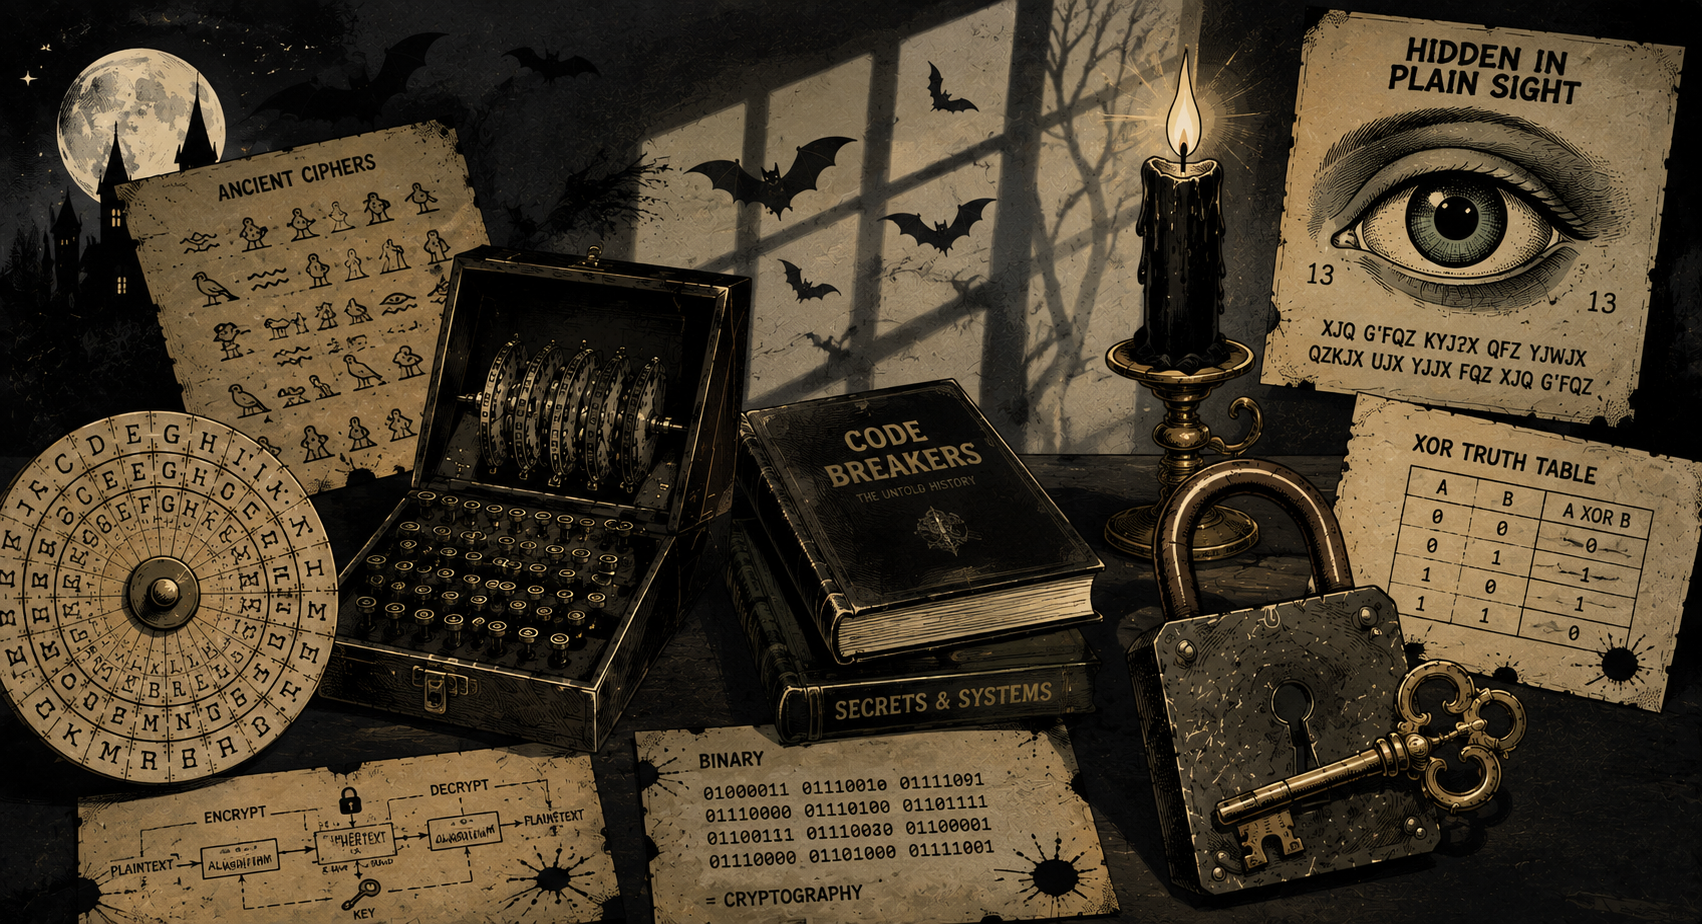
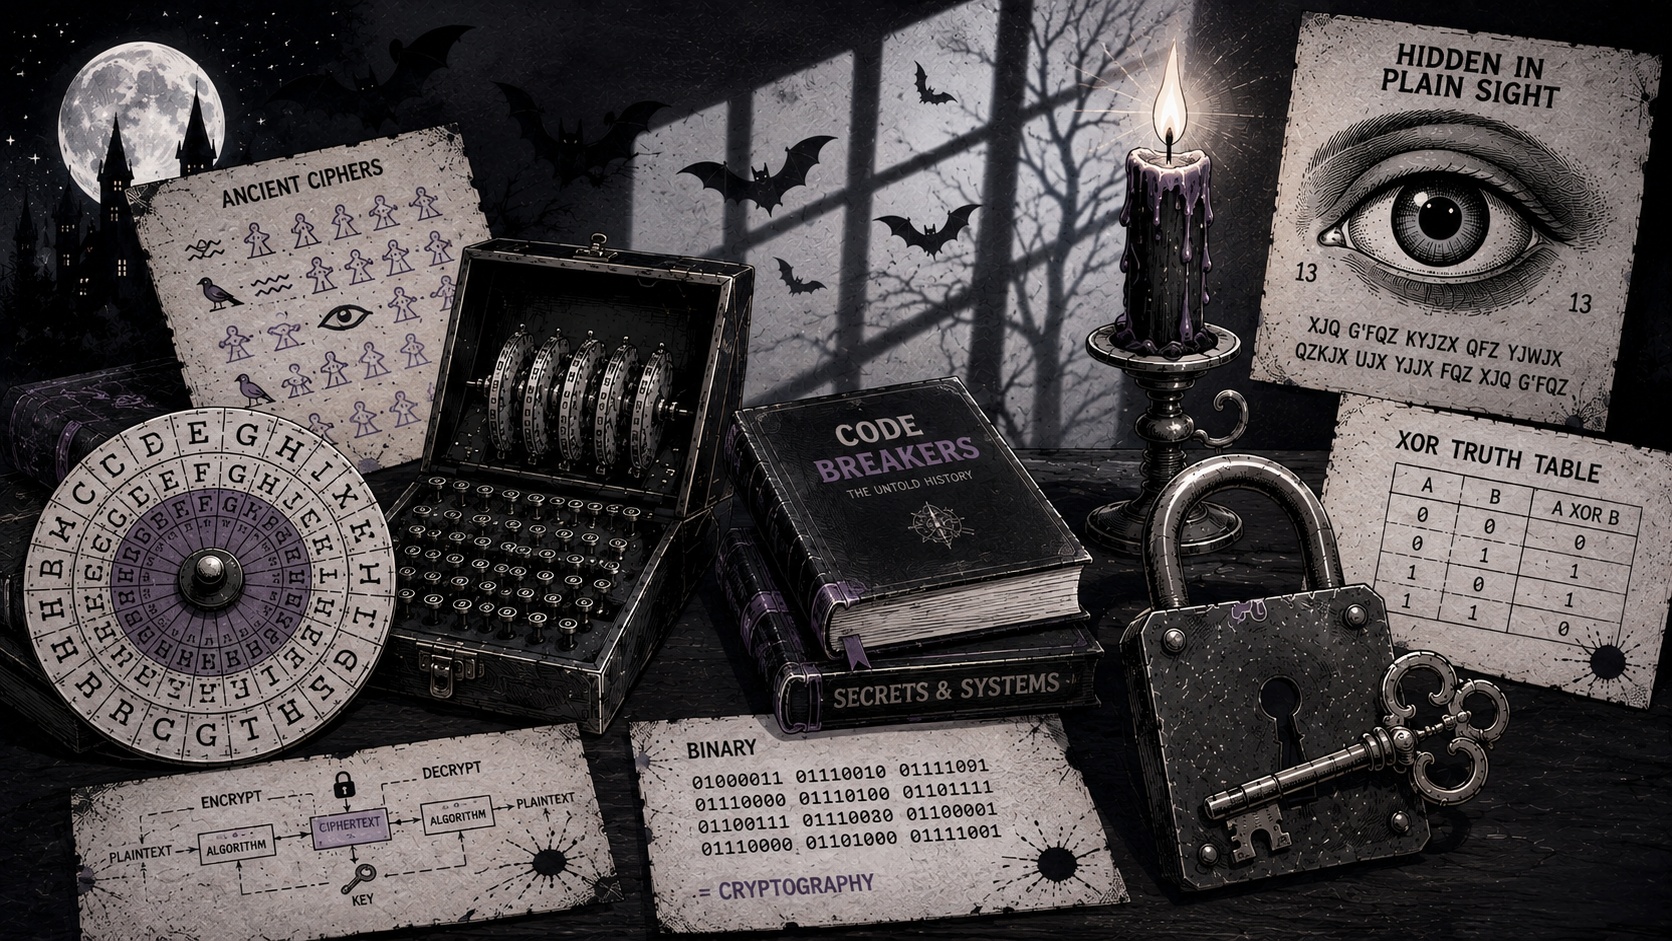
tt

diff --git a/posts/linux-lessons.html b/posts/linux-lessons.html
@@ -20,17 +20,69 @@
           ← Back to feed
         </a>
 
-        <h1>Things I Learned from Breaking Linux</h1>
+        <article>
+  <h1>TCP and UDP Were Never Designed to Be Secure</h1>
 
-        <p class="article-deck">
-          Replace this with the finished introduction to your article.
-        </p>
+  <p class="article-deck">
+A few months ago I took my Information Security exam, and one of the questions was:
+<em>"Explain the security challenges at the transport layer in the TCP/IP model."</em>
+</p>
 
-        <div class="article-body">
-          <p>
-            This is a ready-to-edit article page. Add headings,
-            paragraphs, screenshots and code blocks here.
-          </p>
+<p>
+That question sent me down a rabbit hole. Instead of just revising TCP, UDP and TLS, I became curious about why these protocols were designed the way they were in the first place.
+</p>
+
+<p>
+Once I started looking into their history, a lot of things suddenly made much more sense. It turns out the Internet we use today is still built on ideas from a very different world.
+</p>
+
+<p>
+I thought it was too interesting not to write about, so here's a short journey through the history of TCP, UDP and why transport-layer security looks the way it does today.
+</p>
+
+  <h2>The "Wild West" where everyone just trusted each other</h2>
+
+  <p>When Vint Cerf and Bob Kahn were sketching out the foundation for TCP back in 1974 (and when RFC 793 officially dropped in 1981), the internet was not the chaotic place it is today. Back then, it was just ARPANET, basically a tiny, closed group of university researchers, professors, and military engineers.</p>
+
+  <p>Because everyone on the network was an identifiable academic, the entire design was built on 100% mutual trust. Nobody built encryption or authentication into TCP or UDP because nobody expected someone on the network to actively eavesdrop or hijack sessions. If you wanted to stop someone from messing with your data, you simply locked the physical door to the computer lab.</p>
+
+  <p>Plus, hardware back then was painfully slow. Adding heavy encryption overhead to every packet would have crawled the entire network to a halt. TCP was built for reliability (making sure packets arrived in order), UDP was built for raw speed, and security was left as a problem for the future. Fast forward to the 1990s, and we were sending plain text HTTP over an open global web.</p>
+
+  <h2>When Netscape realized we had a problem</h2>
+
+  <p>Once the World Wide Web exploded in the 90s and everyday people started jumping online, sending plain text across public routers obviously became a disaster waiting to happen. Anyone with basic tools could sniff sensitive data right off the wire.</p>
+
+  <p>Netscape tried fixing this in 1995 with SSL 2.0. It was kind of a mess and full of security holes, so they quickly redesigned it as SSL 3.0 in 1996. Eventually, the IETF took over, renamed it TLS (Transport Layer Security) 1.0 in 1999 to make it an open standard, and that is what evolved into the TLS 1.3 we use today (or DTLS for UDP).</p>
+
+  <p>Whenever you see that little padlock in your address bar, TLS is doing three main things behind the scenes:</p>
+  <ul>
+    <li><strong>Cipher Suites:</strong> Agreeing on how to encrypt the data.</li>
+    <li><strong>Key Exchange:</strong> Secretly exchanging encryption keys so nobody in the middle can read the payload.</li>
+    <li><strong>Authentication:</strong> Using digital certificates so your browser knows it is actually talking to your bank and not an attacker pretending to be them.</li>
+  </ul>
+
+  <h2>Attacks that don't care about encryption</h2>
+
+  <p>But... Even if you encrypt the payload using TLS, an attacker can still abuse the fundamental mechanics of TCP itself. They don't need to read your data if they can just crash your server or hijack your connection.</p>
+
+  <p>A few classic examples I had to write about:</p>
+  <ul>
+    <li><strong>SYN Floods:</strong> TCP uses a three-way handshake to connect (SYN &rarr; SYN/ACK &rarr; ACK). In a SYN flood, an attacker sends a wall of SYN packets with fake return IP addresses. The server responds with SYN/ACK and holds open a slot in memory waiting for the final ACK. But because the sender IP was fake, the final ACK never comes. The server just sits there holding open thousands of "half-open" connections until it runs out of memory and crashes. <em>(SYN cookies are usually used to fight this now so the server doesn't reserve memory upfront).</em></li>
+    <li><strong>Optimistic ACK Attacks:</strong> TCP tries to be smart about speed, if the network is clear, it speeds up data transfer. In an optimistic ACK attack, a client sends ACK receipts <em>before</em> it even receives the packets. This tricks the server into thinking "wow, this network is lightning fast!" and it starts blasting data at max speed, totally overwhelming intermediate routers.</li>
+    <li><strong>Session Hijacking:</strong> If an attacker can guess or steal your TCP sequence numbers (or session cookies), they can step right into the middle of an established connection. The server thinks it is still talking to you, so the attacker can perform actions in your account without ever needing your password.</li>
+    <li><strong>Port Scanning:</strong> Before doing any of this, attackers run tools like Nmap to probe ports and see what's open. A good firewall uses stateful inspection, it basically drops any inbound packet that was not explicitly requested by someone inside the network, making the machine look like a ghost to scanners.</li>
+  </ul>
+
+  <h2>Final thoughts</h2>
+
+<p>
+One thing that really surprised me was how much of today's Internet still depends on ideas that were designed in a completely different era. TCP and UDP were built for a small network where people trusted each other.
+</p>
+
+<p>
+It was really fun to learn about why these protocols work the way they do. 
+</p>
+</article>
         </div>
       </div>
     </article>

diff --git a/js/posts.js b/js/posts.js
@@ -24,19 +24,19 @@ window.blogPosts = [
     previewHtml: "TCP 443<br>192.168.1.10<br>ESTABLISHED",
     likes: 18,
     reposts: 5,
-  },
+  },*/
   {
     shortDate: "Jul 8",
     intro:
-      "Linux lesson of the week: breaking something is often the fastest way to understand how it works.",
+      "It’s kind of wild to realize that almost everything we do online today runs on protocols created over 40 years ago, protocols that were never actually built with security in mind.",
     href: "posts/linux-lessons.html",
-    title: "Things I Learned from Breaking Linux",
-    description: "Notes from mistakes, fixes, and terminal experiments.",
+    title: "TCP and UDP Were Never Designed to Be Secure",
+    description: "The story behind TCP, UDP, TLS, and why security came later.",
     previewClass: "preview-linux",
     previewHtml: "$ whoami<br>vilde<br>$ uname -a",
     likes: 9,
     reposts: 2,
-  },*/
+  },
   {
     shortDate: "Jun 18",
     intro:

diff --git a/css/style.css b/css/style.css
@@ -459,8 +459,15 @@ a:focus-visible {
 
 .feed-preview:hover {
   transform: translateY(-2px);
-  border-color: color-mix(in srgb, var(--accent) 45%, var(--line));
-  box-shadow: 0 12px 34px rgba(47, 30, 76, 0.08);
+  border-color: var(--line);
+  box-shadow: 0 10px 24px rgba(0, 0, 0, 0.08);
+  background: color-mix(in srgb, var(--surface) 92%, white 8%);
+}
+
+:root[data-theme="dark"] .feed-preview:hover {
+  background: color-mix(in srgb, var(--surface) 92%, white 4%);
+  border-color: #3d3d3d;
+  box-shadow: 0 10px 24px rgba(0, 0, 0, 0.18);
 }
 
 .feed-preview-image {
